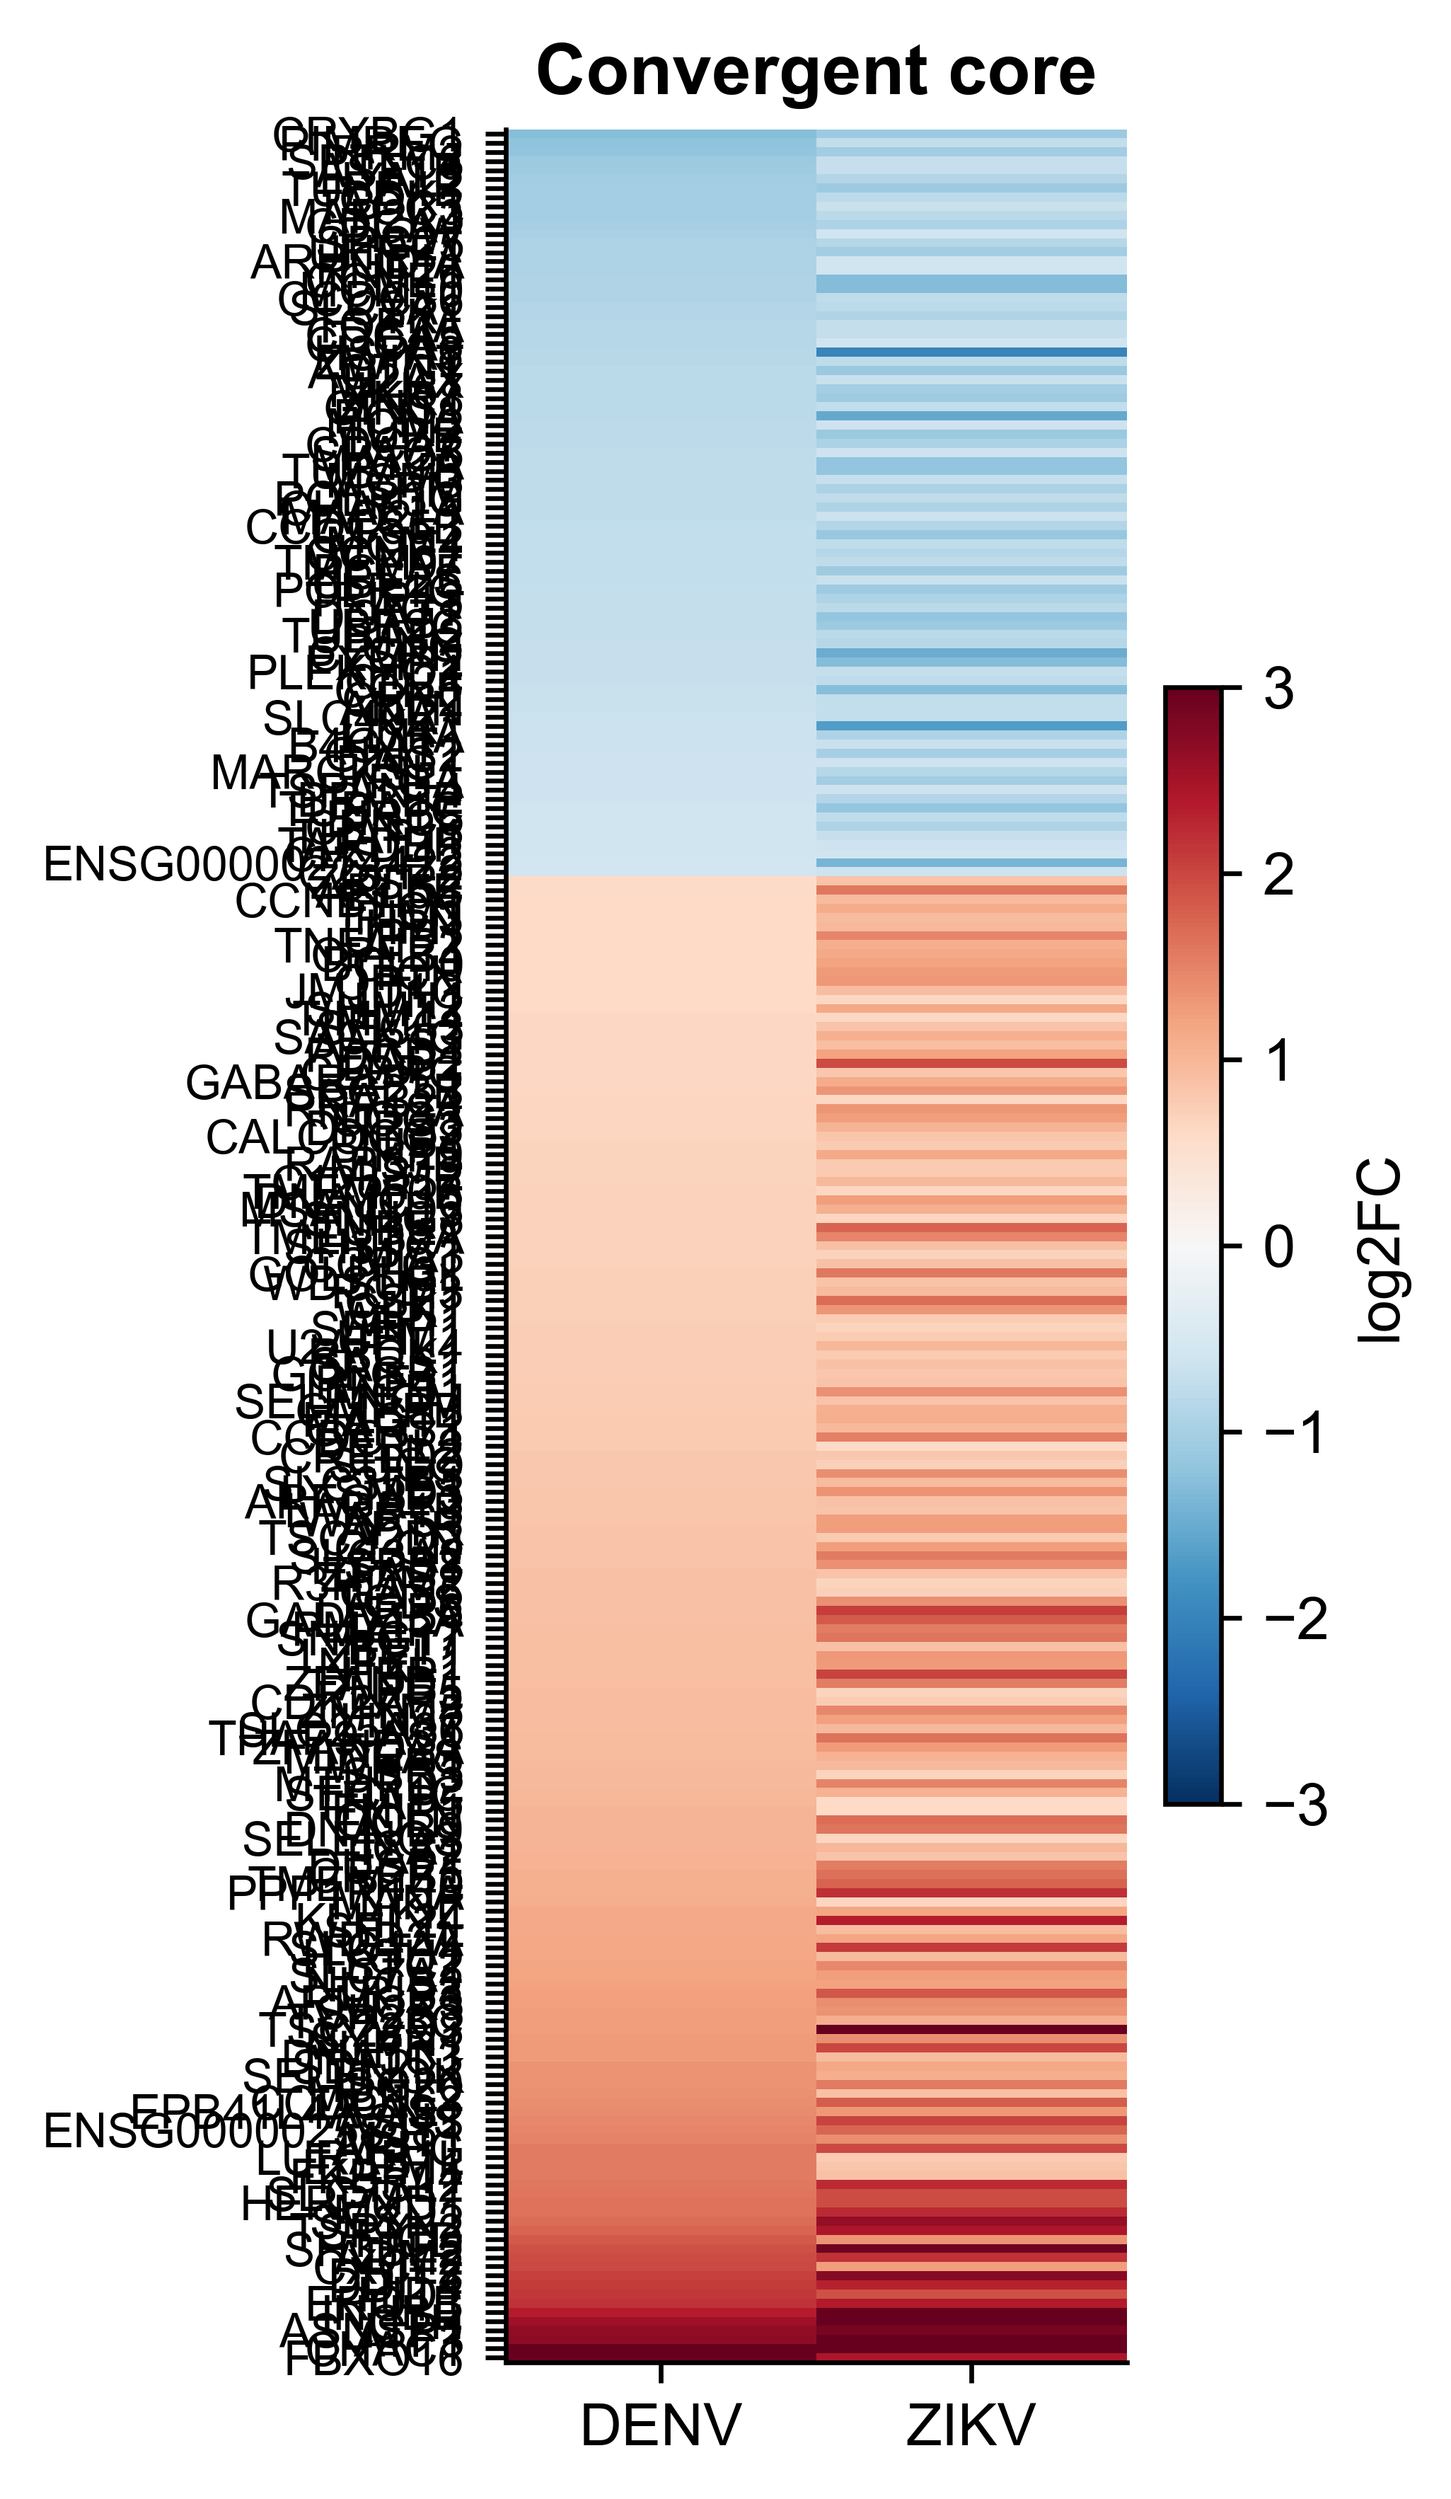
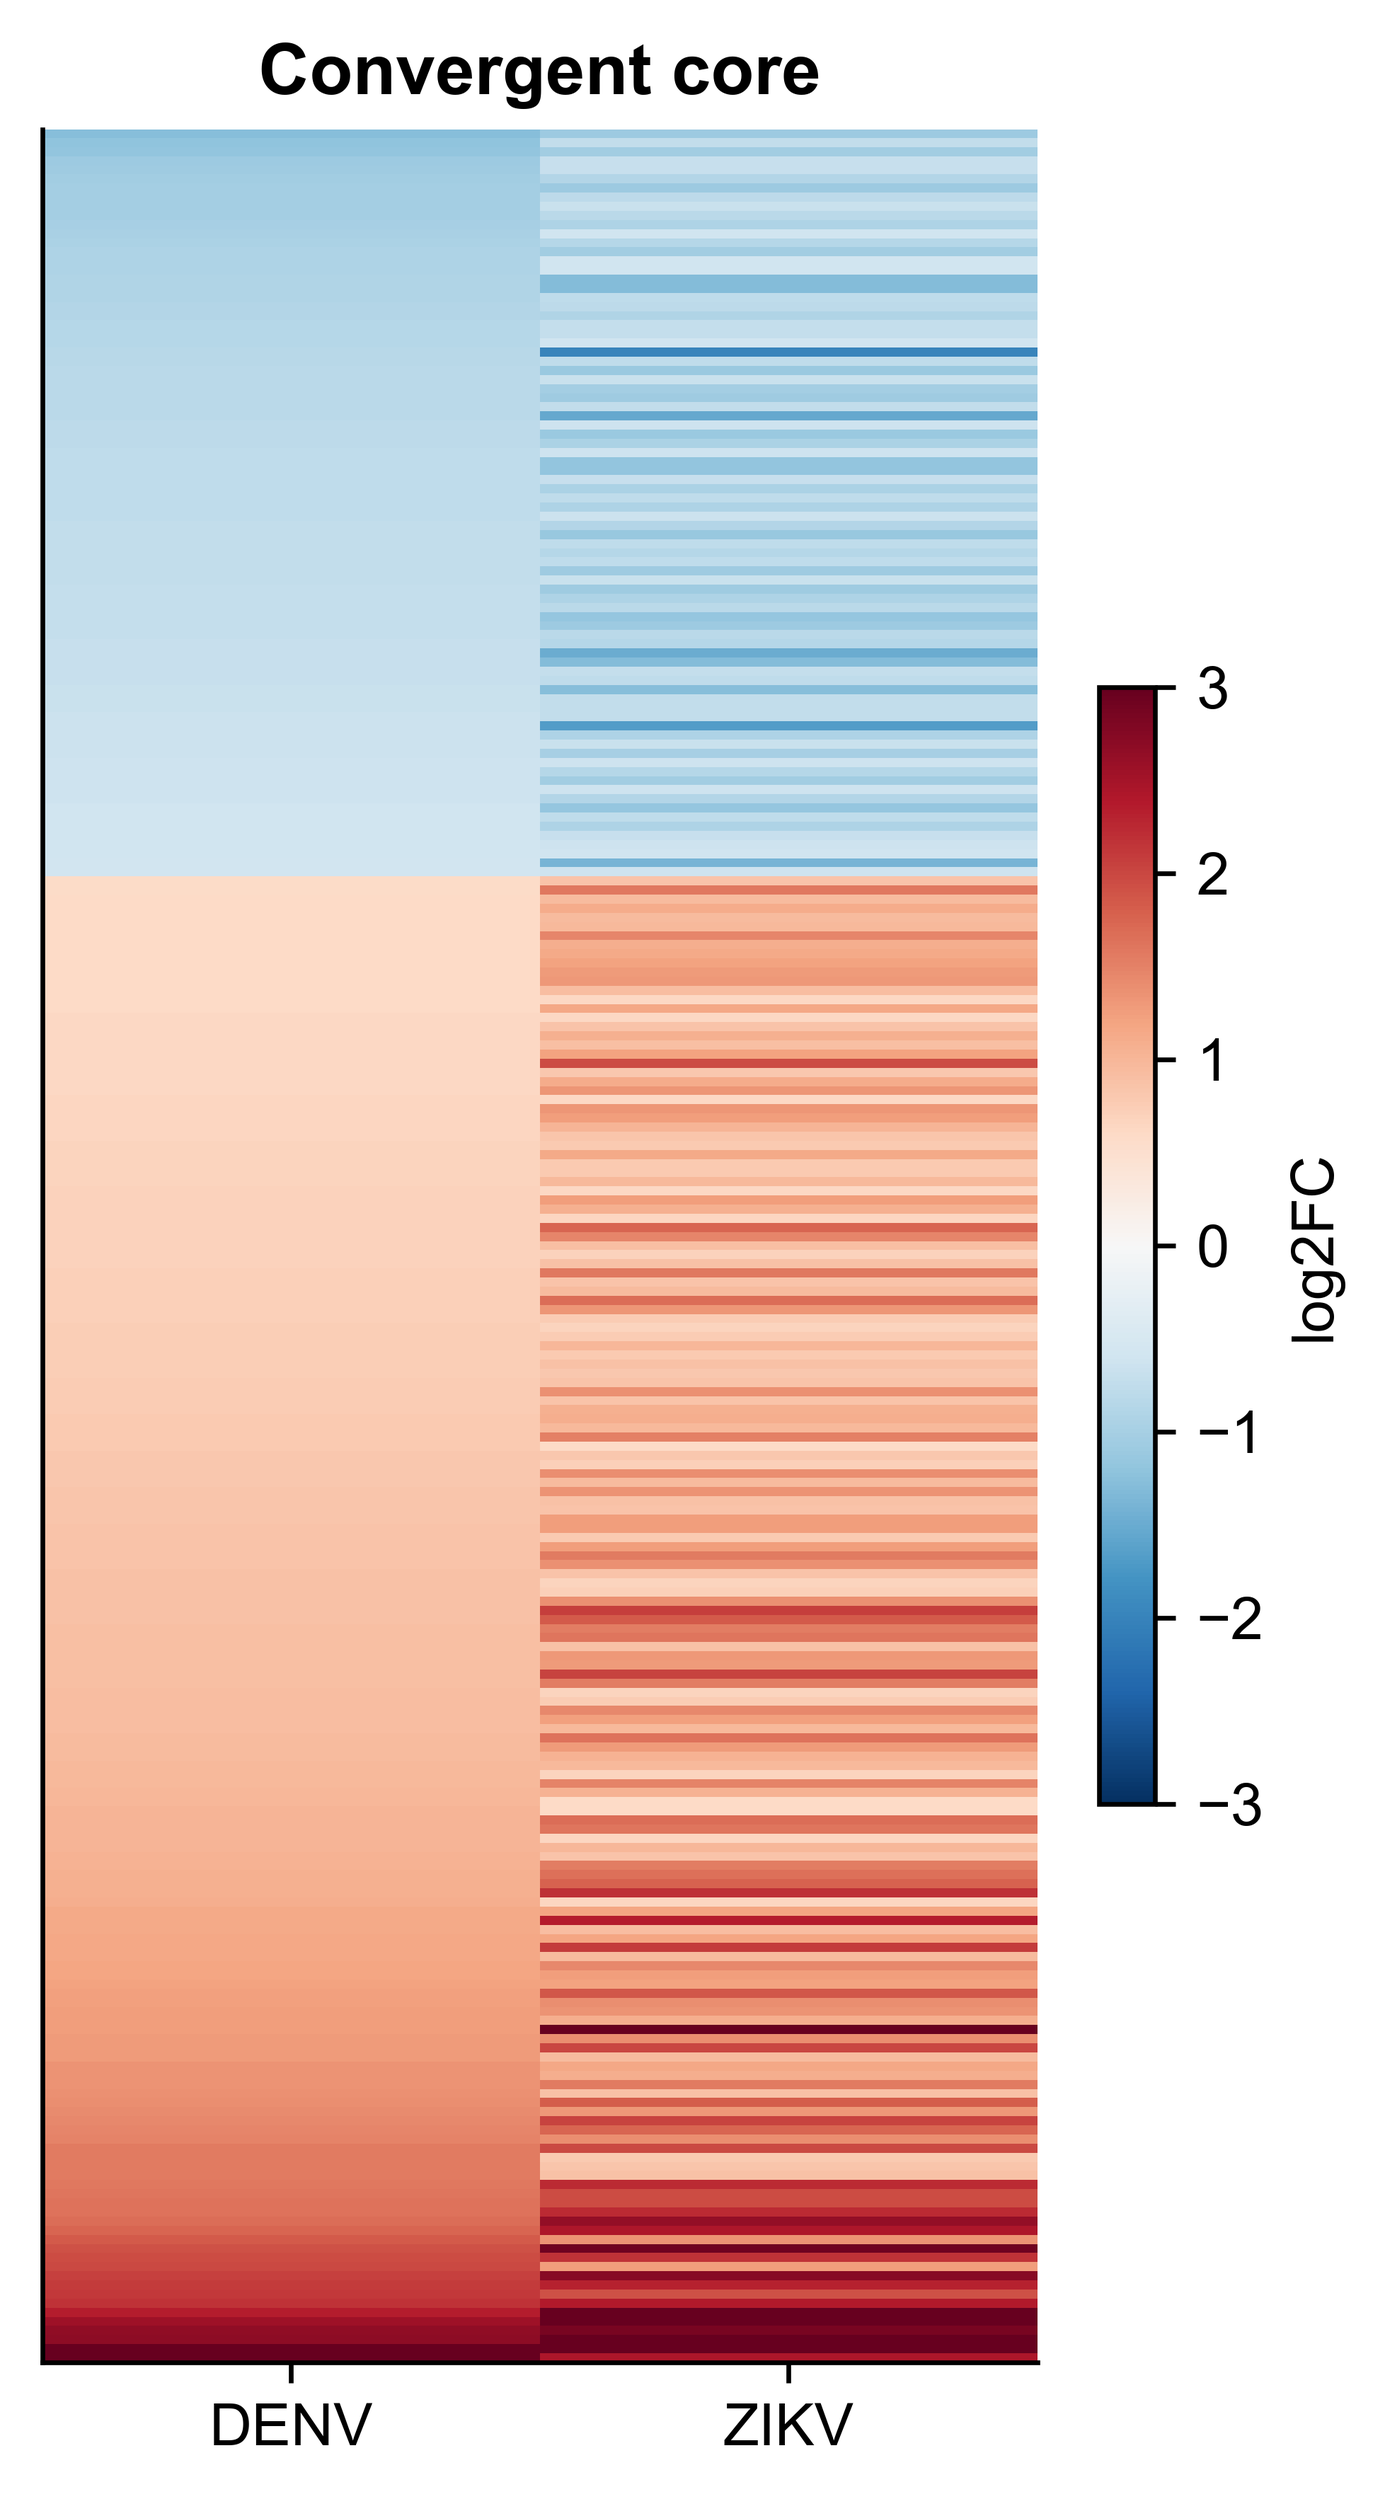
Fix: Remove overlapping y-tick labels on Figure 3 heatmap

diff --git a/Step08_figures/Step08_figures.py b/Step08_figures/Step08_figures.py
@@ -193,8 +193,13 @@ def generate_figure_3(s4_dir: Path, pub_dir: Path, dpi: int, logger: logging.Log
     
     a.set_xticks([0, 1])
     a.set_xticklabels(["DENV", "ZIKV"])
-    a.set_yticks(range(len(hm)))
-    a.set_yticklabels(hm.index, fontsize=8)
+    
+    if len(hm) <= 50:
+        a.set_yticks(range(len(hm)))
+        a.set_yticklabels(hm.index, fontsize=8)
+    else:
+        a.set_yticks([]) # Hide overlapping labels if too many genes
+        
     a.set_title("Convergent core")
     
     plt.colorbar(im, ax=a, label="log2FC", shrink=0.5)
